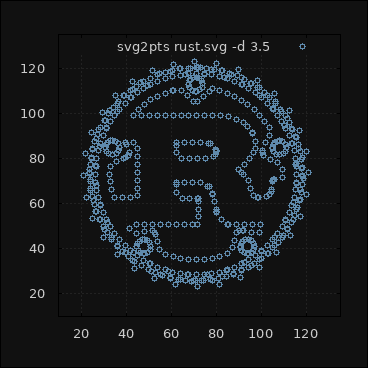
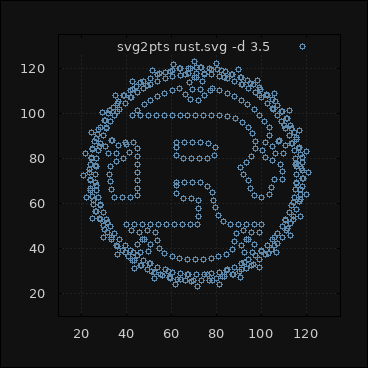
Fix: Point clustering from short lines.

diff --git a/src/main.rs b/src/main.rs
@@ -33,7 +33,7 @@ struct Opt {
 fn print_usage() {
     println!(
         "{}",
-        r#"svg2pts 0.1.2
+        r#"svg2pts 0.1.3
 Converts all paths in a svg to a list of points. Will ignore paths
 with no stroke or fill. Output is a sequence of points, `X Y\n`. 
 
@@ -203,7 +203,12 @@ impl<T: Write> PathWriter<T> {
                                                (self.last, line_end)){
             self.current = pt;
             self.write_pt(self.current)?;
-        } else { //shouldn't happen unless numerical floats point inaccuracy occours  
+        } else {   
+            if (self.last - self.current).length() < self.target_dist {
+                self.last = line_end; 
+                return Ok(());
+            }
+            //shouldn't happen unless numerical floats point inaccuracy occours
             self.current = self.last;
             self.write_pt(self.current)?;
         }

diff --git a/README.md b/README.md
@@ -3,8 +3,9 @@
 [![](https://meritbadge.herokuapp.com/svg2pts)](https://crates.io/crates/svg2pts)
 <!-- [![](https://docs.rs/svg2pts/badge.svg)](https://docs.rs/svg2pts/) -->
 
-Command line utility to convert the paths in a SVG to a list of points. All paths in the SVG is converted into a list of points
+Command line utility to convert the paths in a SVG to a list of points. All paths in the SVG are converted into a list of points with
 curve interpolation is controlled by command line arguments. 
+Paths with no stroke nor fill are ignored. Output is a sequence of points, `X Y\n`
 
 
 * [Installation](#installation)
@@ -25,8 +26,9 @@ This will make the svg2pts binary available in your cargo binary directory; usua
 ## Usage
 
 ```text
-svg2pts 0.1.2
-Converts all paths in a svg to a list of points.
+svg2pts 0.1.3
+Converts all paths in a svg to a list of points. Paths
+with no stroke nor fill are ignored. Output is a sequence of points, `X Y\n`. 
 
 USAGE:
     svg2pts [OPTIONS] [ <input> [<output>] ]
